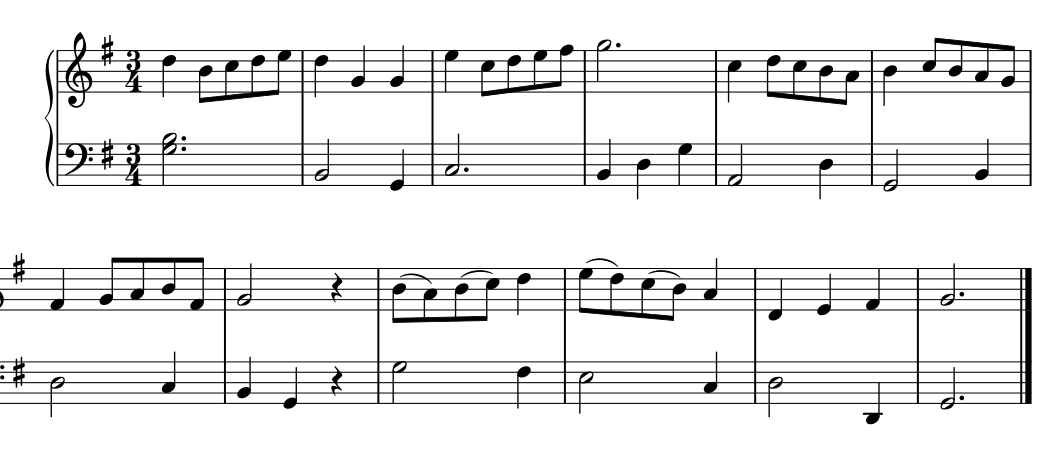
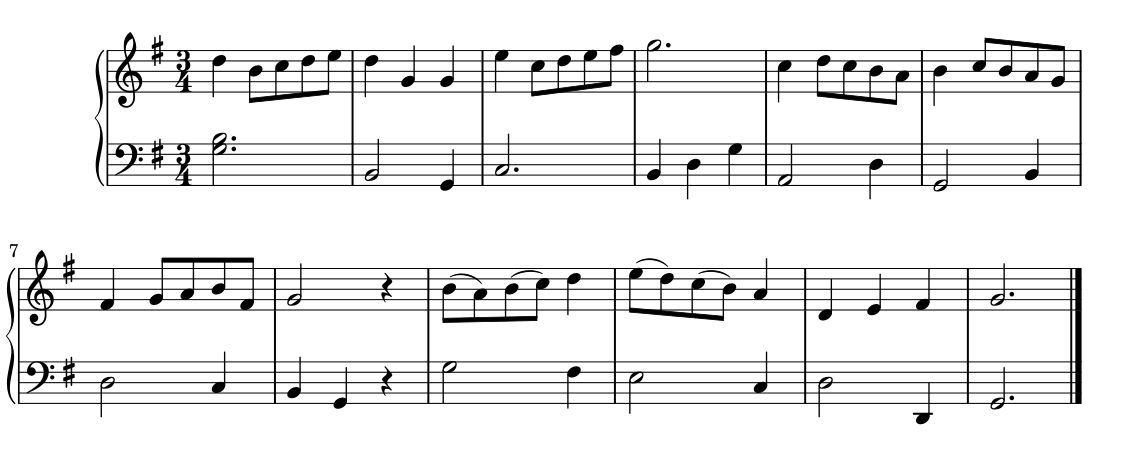
Deploy the website to GitHub Pages
The page is now a complete document, and .github/workflows/pages.yml tests,
builds and deploys it on every push to main. GitHub Pages can't send the
cross-origin isolation headers which onnxruntime-web's threads need, so the
page registers a service worker which adds them: in Chromium a page then
takes 22 seconds instead of 52, with exactly the checked LilyPond.

Claude-Session: https://claude.ai/code/session_01Q7hcTvbH9VqR4765CVnspD

diff --git a/site/app.ts b/site/app.ts
@@ -18,6 +18,32 @@ const copy = $<HTMLButtonElement>('copy')
 const base = new URL('./', import.meta.url).href
 let busy = false
 
+/**
+ * Threads need cross-origin isolation, whose headers static hosts like GitHub Pages can't send:
+ * coi-sw.js adds them. The page reloads once, so that the service worker serves it.
+ */
+async function isolate(): Promise<void> {
+  if (crossOriginIsolated || !('serviceWorker' in navigator) || !isSecureContext) return
+  try {
+    const registration = await navigator.serviceWorker.register(new URL('coi-sw.js', base), { scope: base })
+    if (navigator.serviceWorker.controller) return // serves the page, but the browser doesn't isolate it
+    let reloaded = false
+    try {
+      reloaded = sessionStorage.getItem('homrly-isolation') === 'tried'
+      sessionStorage.setItem('homrly-isolation', 'tried')
+    } catch {
+      return // without storage a reload could repeat
+    }
+    if (reloaded) return
+    const worker = registration.installing ?? registration.waiting ?? registration.active
+    if (worker?.state === 'activated') location.reload()
+    else worker?.addEventListener('statechange', () => worker.state === 'activated' && location.reload())
+  } catch {
+    // Without a service worker the page runs on one thread
+  }
+}
+void isolate()
+
 // The example output of the sample page, shown until something is read
 fetch(new URL('sample.ly', base))
   .then((r) => (r.ok ? r.text() : Promise.reject(new Error(String(r.status)))))

diff --git a/site/index.html b/site/index.html
@@ -1,5 +1,10 @@
+<!doctype html>
+<html lang="en">
+<head>
+<meta charset="utf-8">
+<meta name="viewport" content="width=device-width, initial-scale=1">
 <title>homrly</title>
-<meta name="claude:viewport-fit-sides" content="cover">
+<meta name="description" content="Reads a picture of sheet music and writes it as LilyPond, in your browser.">
 <link rel="preconnect" href="https://fonts.googleapis.com">
 <link rel="preconnect" href="https://fonts.gstatic.com" crossorigin>
 <link rel="stylesheet" href="https://fonts.googleapis.com/css2?family=Inter:wght@400;500;600&family=JetBrains+Mono:wght@400;500&family=Space+Grotesk:wght@500;600&display=swap">
@@ -46,7 +51,10 @@
     color-scheme: dark;
   }
   * { box-sizing: border-box; }
+  [hidden] { display: none !important; }
+  img { max-width: 100%; }
   body {
+    margin: 0;
     background: var(--paper);
     color: var(--ink);
     font: 15px/1.55 var(--body);
@@ -161,7 +169,8 @@
   footer a { color: inherit; }
   @media (prefers-reduced-motion: reduce) { .bar > div { transition: none; } }
 </style>
-
+</head>
+<body>
 <div class="wrap">
   <header>
     <h1>homrly</h1>
@@ -217,3 +226,5 @@
 </div>
 
 <script type="module" src="app.js"></script>
+</body>
+</html>

diff --git a/site/coi-sw.js b/site/coi-sw.js
@@ -1,0 +1,20 @@
+// Adds the cross-origin isolation headers to the site's responses, which GitHub Pages can't
+// send itself. With them onnxruntime-web can use several threads: a page takes about 20
+// seconds instead of 50. The embedder policy is credentialless, so that the fonts from Google
+// Fonts still load.
+self.addEventListener('install', () => self.skipWaiting())
+self.addEventListener('activate', (event) => event.waitUntil(self.clients.claim()))
+self.addEventListener('fetch', (event) => {
+  const request = event.request
+  if (request.cache === 'only-if-cached' && request.mode !== 'same-origin') return
+  event.respondWith(
+    fetch(request).then((response) => {
+      if (response.status === 0) return response
+      const headers = new Headers(response.headers)
+      headers.set('Cross-Origin-Opener-Policy', 'same-origin')
+      headers.set('Cross-Origin-Embedder-Policy', 'credentialless')
+      headers.set('Cross-Origin-Resource-Policy', 'cross-origin')
+      return new Response(response.body, { status: response.status, statusText: response.statusText, headers })
+    }),
+  )
+})

diff --git a/DEVELOPMENT.md b/DEVELOPMENT.md
@@ -128,12 +128,14 @@ LILYPOND_WASM=../lilypond-wasm node tools/lilypond/check.mjs out/*.ly
 ## Website
 
 `site/` is a page which reads an image (pasted, dropped or chosen) and shows the LilyPond to
-copy. `npm run site:build` builds it into `dist-site/` with esbuild: the page is a fragment
-which the host wraps in a document, the recognition runs in a Web Worker, onnxruntime-web's CPU
+copy, deployed to GitHub Pages by `.github/workflows/pages.yml`. `npm run site:build` builds
+it into `dist-site/` with esbuild: the recognition runs in a Web Worker, onnxruntime-web's CPU
 build is loaded by URL, and the models are split into parts of 14 MB (`models/manifest.json`)
 for hosts with a file size limit, named `.wasm` so that hosts which serve only web file types
 serve them; the worker joins them and keeps them in the Cache API.
-`npm run site:serve` serves the build locally like such a host (`--isolated` adds the
-cross-origin isolation headers, with which onnxruntime-web uses several threads). In Chromium
-the page reads both test images and gives exactly `test/fixtures/piano.expected.ly`: a full
-page takes about 50 seconds on one thread.
+onnxruntime-web uses several threads only under cross-origin isolation, whose headers GitHub
+Pages can't send, so the page registers `site/coi-sw.js`, a service worker which adds them,
+and reloads once (with `credentialless` as the embedder policy, so that Google Fonts load).
+`npm run site:serve` serves the build locally without the headers, like GitHub Pages
+(`--isolated` sends them). In Chromium the page reads both test images and gives exactly
+`test/fixtures/piano.expected.ly`: a full page takes about 20 seconds isolated, 50 without.

diff --git a/README.md b/README.md
@@ -18,9 +18,12 @@ npm run site:serve     # http://localhost:8080
 
 Paste an image of sheet music, drop it or choose a file: the page reads it in a Web Worker and
 shows the LilyPond, ready to copy. The models are kept in the browser's cache after the first
-run. `dist-site/` can be served by any static host; with the headers
-`Cross-Origin-Opener-Policy: same-origin` and `Cross-Origin-Embedder-Policy: require-corp`
-onnxruntime-web uses several threads and a page takes about 20 seconds instead of 50.
+run. A page takes about 20 seconds.
+
+The site is deployed to GitHub Pages by `.github/workflows/pages.yml` on every push to `main`,
+after the tests pass. `dist-site/` works on any static host: onnxruntime-web needs
+cross-origin isolation for its threads, and where the host can't send its headers, the page's
+service worker (`site/coi-sw.js`) adds them; without either a page takes about 50 seconds.
 
 ## Library
 
